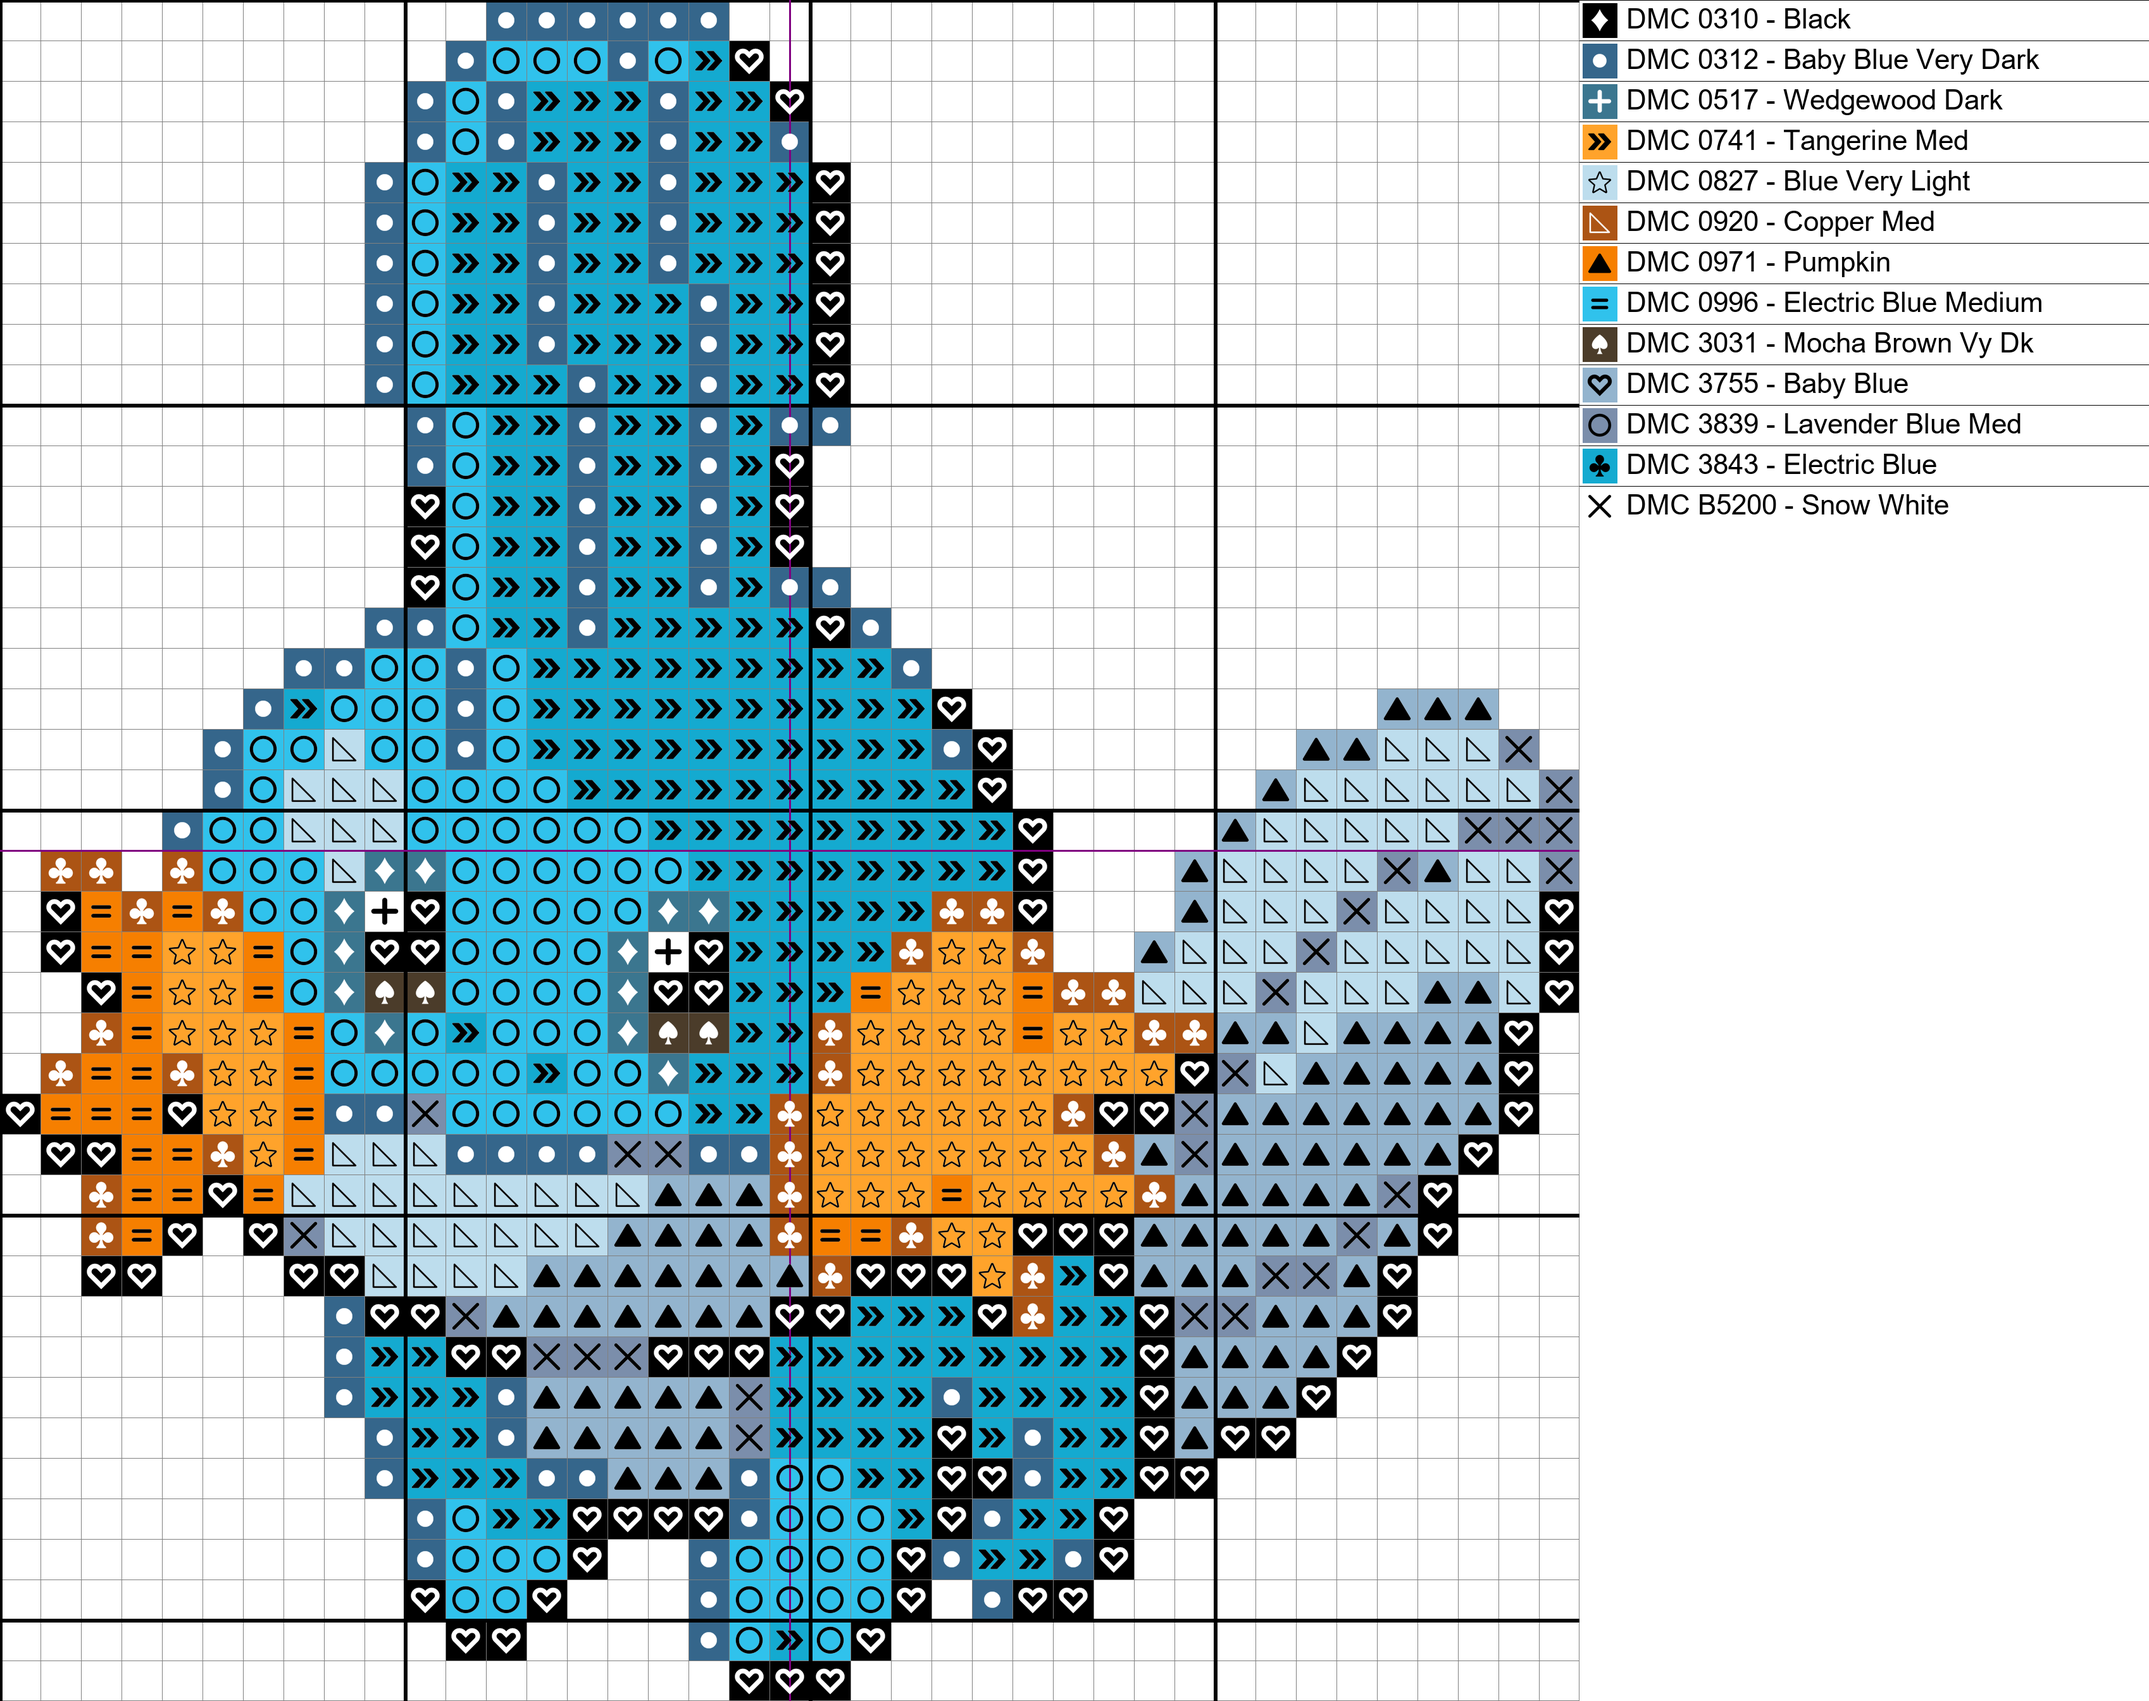
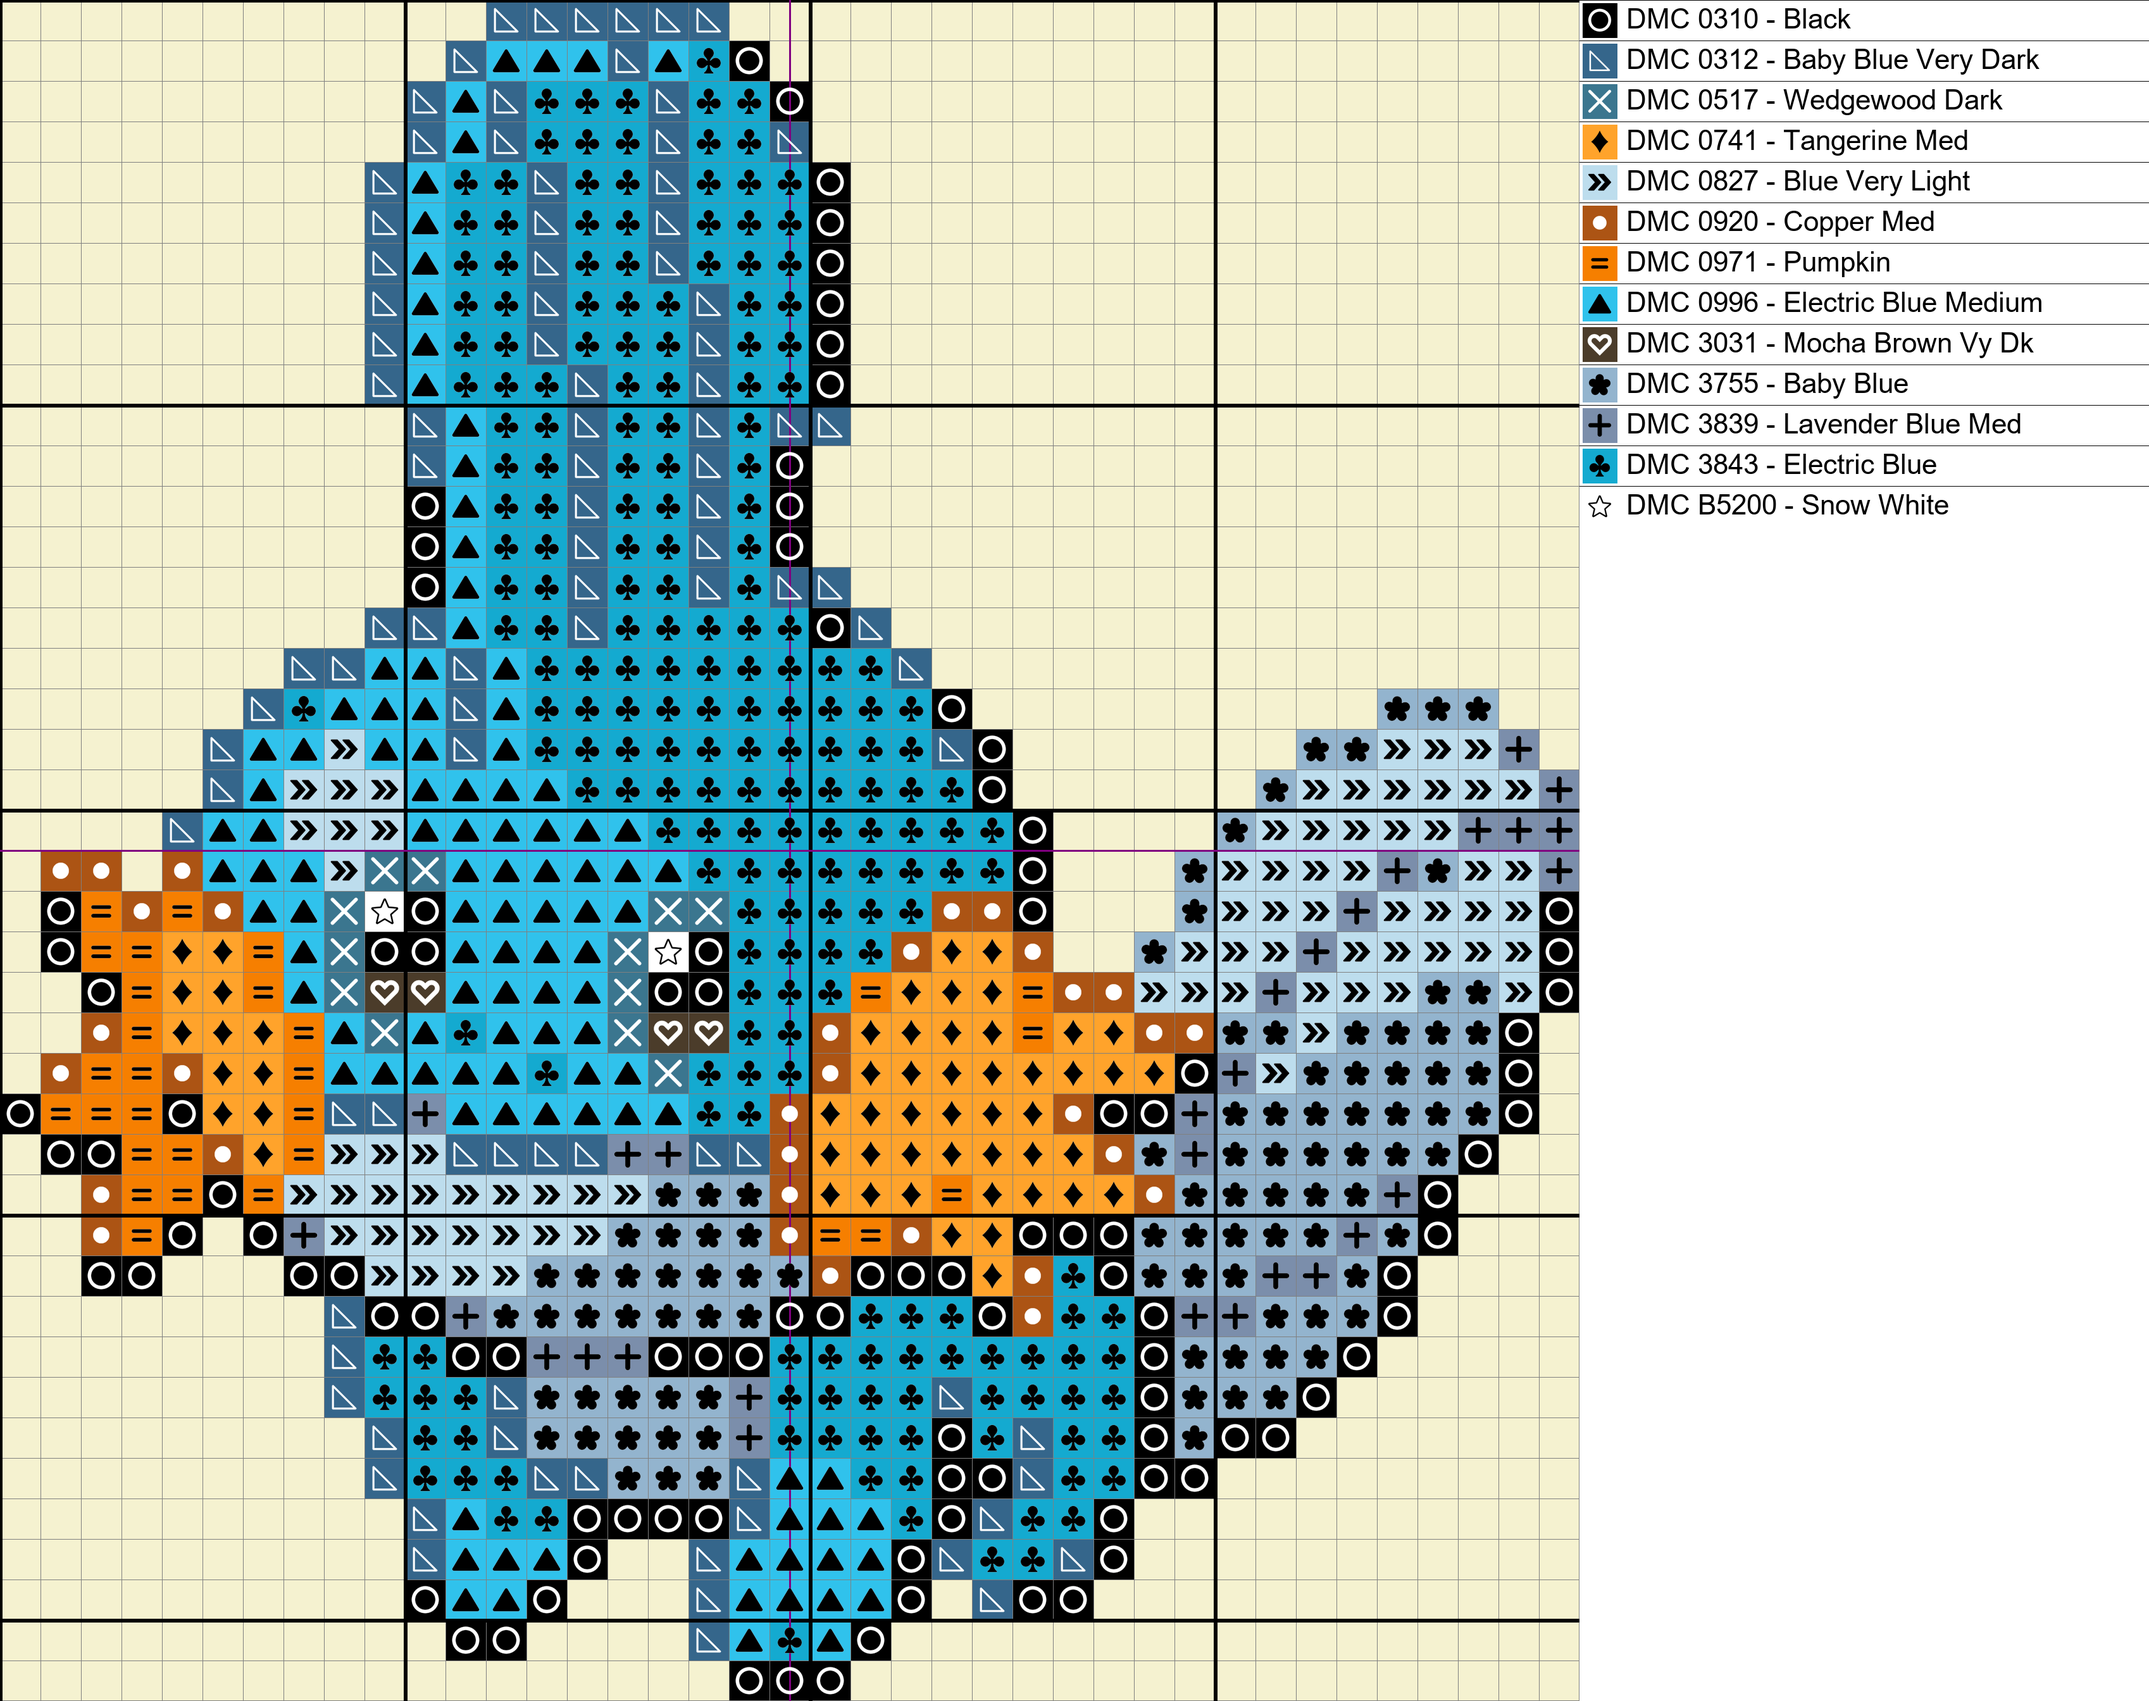
bug fixed - MVP

diff --git a/utils.py b/utils.py
@@ -35,7 +35,8 @@ def get_RGBA_list(image_path):
     img = Image.open(image_path).convert('RGBA')
 
     width, height = img.size  # Extract RGB values for all pixels
-    rgb_values = [img.getpixel((x, y)) for y in range(height) for x in range(width)]
+    rgb_values =[
+        img.getpixel((x, y)) for y in range(height) for x in range(width)]
 
     rgb_counts = Counter(rgb_values)
     rgb_dict = dict(rgb_counts)
@@ -106,6 +107,44 @@ def compare_colors(img_colors, dmc_df):
     return df
 
 
+def recolor_image(image_path, pandas_colors):
+    # Load and convert image to RGBA
+    img = Image.open(image_path).convert('RGBA')
+    data = np.array(img)
+    color_map = {}
+
+    for row in pandas_colors.iterrows():
+        # Get Original and New Color
+        original = row[1]["Original RGBA"].split()
+        # print("OG :", type(original), "...", original)
+        new = (row[1]["Color Match RGB"].replace(",", "").replace("[", "")
+               .replace("]", "").split())
+        new.extend(['255'])
+        # print("NEW:", type(new), "...", new)
+
+        # Convert Colors from Str to Int
+        original_int = tuple(list(map(int, original)))
+        new_int = tuple(list(map(int, new)))
+
+        # Define color mappings: old_color -> new_color
+        color_map[original_int] = new_int
+
+
+    # Replace each color in the map
+    for old_color, new_color in color_map.items():
+        # Create mask for pixels matching the old color
+        mask = np.all(data == old_color, axis=-1)
+        data[mask] = new_color
+
+    # Convert back to PIL Image and save
+    output_path = image_path.replace("crop.png", "recolor.png")
+    result_img = Image.fromarray(data)
+    result_img.save(output_path)
+    print(f"Recolored image saved to {output_path}")
+
+    return output_path
+
+
 def duplicate_checking(color_chart, original_path, scaled_path):
     # Find Color Duplicates
     color_list = color_chart['DMC Number'].tolist()
@@ -142,44 +181,7 @@ def duplicate_checking(color_chart, original_path, scaled_path):
 
                         scaled.paste(symbol, (px, py), symbol)
 
-    scaled.save("test.png")
-
-
-def recolor_image(image_path, pandas_colors):
-    # Load and convert image to RGBA
-    img = Image.open(image_path).convert('RGBA')
-    data = np.array(img)
-    color_map = {}
- 
-    for row in pandas_colors.iterrows():
-        # Get Original and New Color
-        original = row[1]["Original RGBA"].split()
-        # print("OG :", type(original), "...", original)
-        new = (row[1]["Color Match RGB"].replace(",", "").replace("[", "")
-               .replace("]", "").split())
-        new.extend(['255'])
-        # print("NEW:", type(new), "...", new)
-
-        # Convert Colors from Str to Int
-        original_int = tuple(list(map(int, original)))
-        new_int = tuple(list(map(int, new)))
-
-        # Define color mappings: old_color -> new_color
-        color_map[original_int] = new_int
-
-
-    # Replace each color in the map
-    for old_color, new_color in color_map.items():
-        # Create mask for pixels matching the old color
-        mask = np.all(data == old_color, axis=-1)
-        data[mask] = new_color
-
-    # Convert back to PIL Image and save
-    output_path = image_path.replace("crop.png", "recolor.png")
-    result_img = Image.fromarray(data)
-    result_img.save(output_path)
-
-    return output_path
+    scaled.show()
 
 
 def create_side_by_side(img1_path, img2_path):
@@ -217,8 +219,8 @@ def add_grid(image_path):
     img = Image.open(image_path).convert("RGBA")
 
     # Create a temp background for testing
-    # temp_bckgnd_color = (255, 255, 255)  # (245, 242, 208)
-    background = Image.new("RGBA", img.size)  # , temp_bckgnd_color)
+    temp_bckgnd_color = (245, 242, 208)
+    background = Image.new("RGBA", img.size, temp_bckgnd_color)
     background.paste(img, (0, 0), img)
     img = background
 
@@ -276,6 +278,7 @@ def add_grid(image_path):
 
     output_path = image_path.replace("_recolor.png", "_grid.png")
     image.save(output_path)
+    print(f"Gridded image saved to {output_path}")
 
     return output_path
 
@@ -300,6 +303,7 @@ def add_symbols(base_image_path, grid_image_path, color_chart):
         'DMC Number': 'first',
         'Stitch Count': 'sum',
         'Color Match RGB': 'first'}).sort_values(by='DMC Number')
+    color_key = color_key.reset_index(drop=True)
     color_key['Symbol'] = ""
 
     # Apply Symbols
@@ -328,8 +332,10 @@ def add_symbols(base_image_path, grid_image_path, color_chart):
 
                         scaled.paste(symbol, (px, py), symbol)
 
-    output_path = "test.png"
+    output_path = grid_image_path.replace("_grid.png", "_icons.png")
     scaled.save(output_path)
+    print(f"Image w/ symbols/icons saved to {output_path}")
+
     return color_key, output_path
 
 
@@ -368,16 +374,18 @@ def create_color_key(key, image_path):
 
         # Symbols
         symbol_path = key["Symbol"].iloc[index]
-        symbol_scale = SCALE - (margin * 2)
-        symbol = Image.open(symbol_path).convert("RGBA")
-        symbol = symbol.resize((symbol_scale, symbol_scale))
+        # print(color, symbol_path)
+        if symbol_path:
+            symbol_scale = SCALE - (margin * 2)
+            symbol = Image.open(symbol_path).convert("RGBA")
+            symbol = symbol.resize((symbol_scale, symbol_scale))
 
-        if color_correction(color):
-            arr = np.array(symbol)
-            arr[..., :3] = 255 - arr[..., :3]
-            symbol = Image.fromarray(arr, "RGBA")
+            if color_correction(color):
+                arr = np.array(symbol)
+                arr[..., :3] = 255 - arr[..., :3]
+                symbol = Image.fromarray(arr, "RGBA")
 
-        image.paste(symbol, (x_start+margin, y+margin), symbol)
+            image.paste(symbol, (x_start+margin, y+margin), symbol)
 
         # Labels
         dmc_num = key["DMC Number"].iloc[index]
@@ -396,6 +404,8 @@ def create_color_key(key, image_path):
 
     output_path = image_path.replace("_grid.png", "_key.png")
     image.save(output_path)
+    print(f"Cross stitch key saved to {output_path}")
+
     return output_path
 
 
@@ -417,8 +427,11 @@ def combine_image_and_key(key_path, image_path):
     canvas.paste(img, (0, 0), mask=img) # Use mask to maintain transparency
     canvas.paste(key, (img_w, 0), mask=key) # Use mask to maintain transparency
 
-    output_path = "finished.png"
+    output_path = image_path.replace("_icons.png", "_FINAL.png")
     canvas.save(output_path)
+    print(f"Final image saved to {output_path}")
+    canvas.save(output_path)
+
 
 # -------------------------------------------------------- Supporting Functions
 def rgb_to_lab(rgb):

diff --git a/main.py b/main.py
@@ -10,22 +10,14 @@ from utils import crop_transparent_border, get_RGBA_list, prep_dmc_color_lst, \
 os.system('cls' if os.name == 'nt' else 'clear')
 
 # ------------------------- Main Code -------------------------
-crop_path = crop_transparent_border(r"Sample_Images\mudkip.png")
+crop_path = crop_transparent_border(r"Sample_Images\mudkip\mudkip.png")
 img_color_dict = get_RGBA_list(crop_path)
 dmc_colors_df = prep_dmc_color_lst()
 color_chart = compare_colors(img_color_dict, dmc_colors_df)
-
-# print(color_chart)
-
 recolor_path = recolor_image(crop_path, color_chart)
 # create_side_by_side(crop_path, recolor_path)
-
 grid_path = add_grid(recolor_path)
-
 # duplicate_checking(color_chart, crop_path, grid_path)
-
 color_key, symbol_path = add_symbols(recolor_path, grid_path, color_chart)
-
 key_path = create_color_key(color_key, grid_path)
-
 combine_image_and_key(key_path, symbol_path)
